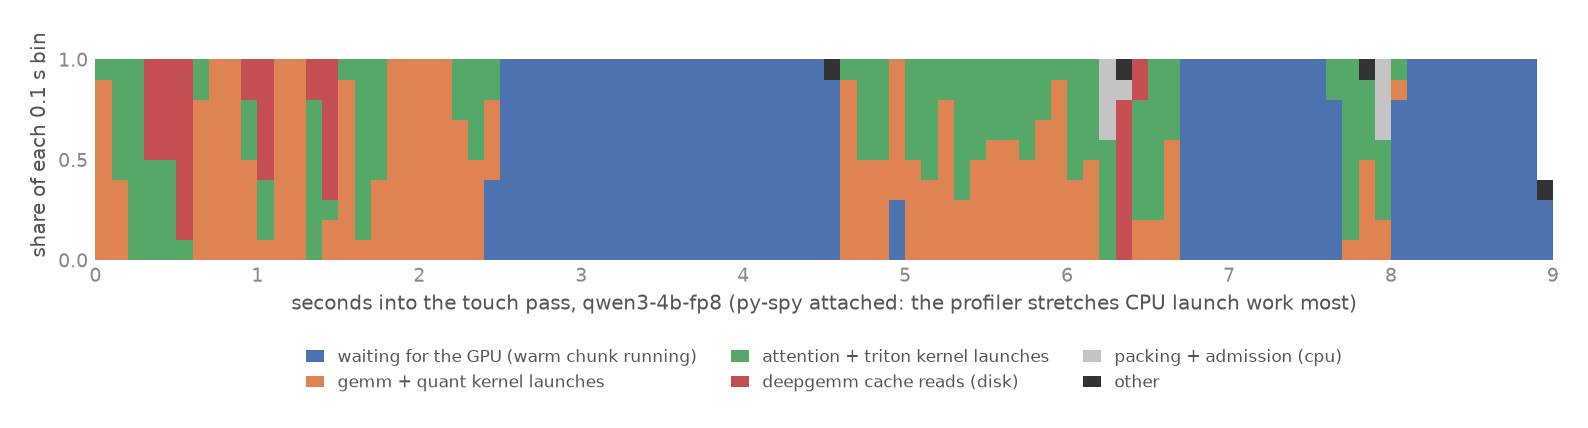
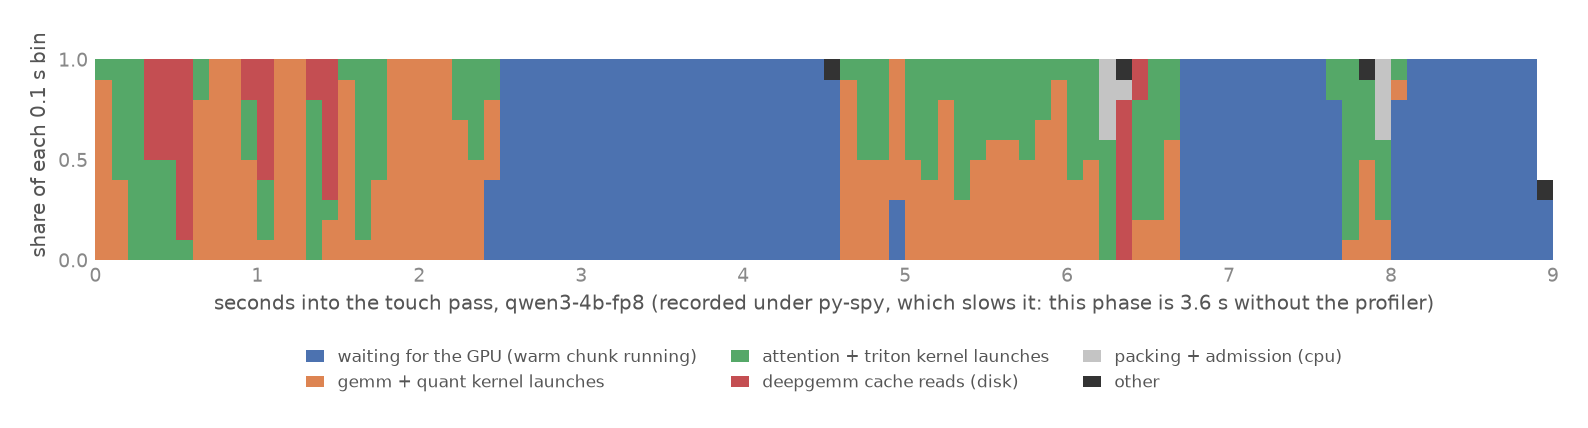
Timeline axis labels state the profiled-vs-clean walls explicitly
Claude-Session: https://claude.ai/code/session_01B1e7WkXJap1QgTaqrRG9xU

Changed region(s): [[0.1234, 0.6682, 0.8948, 0.729]]

diff --git a/quail/reports/make_boot_plots.py b/quail/reports/make_boot_plots.py
@@ -128,9 +128,12 @@ for model, entry in tl["models"].items():
     ax.set_ylim(0, 1.15)
     ax.set_yticks([0, 0.5, 1.0])
     ax.set_ylabel("share of each 0.1 s bin")
+    note = ("recorded under py-spy, which slows it: this phase is "
+            "3.6 s without the profiler" if model == "qwen3-4b-fp8"
+            else "recorded under py-spy; 11-22 s without it, "
+                 "host-speed dependent")
     ax.set_xlabel(
-        f"seconds into the touch pass, {model} (py-spy attached: "
-        "the profiler stretches CPU launch work most)")
+        f"seconds into the touch pass, {model} ({note})")
     ax.legend(loc="upper center", bbox_to_anchor=(0.5, -0.32),
               ncol=3, fontsize=8, handlelength=1.1)
     fig2.tight_layout()
